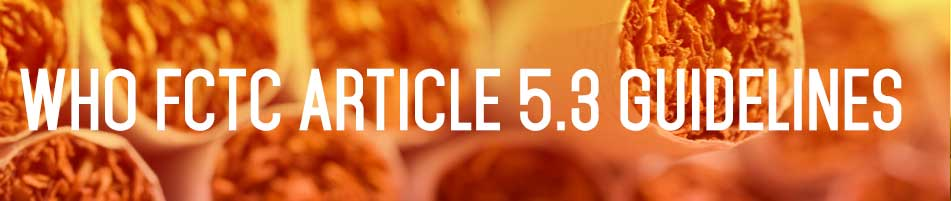
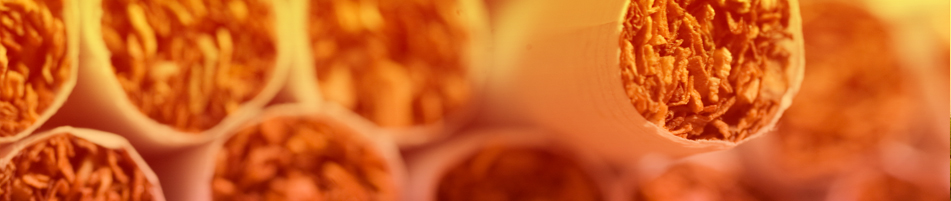
use background images without texts

Changed region(s): [[0.0, 0.3284, 0.9758, 0.6567]]

diff --git a/wp-content/themes/dyad/style.css b/wp-content/themes/dyad/style.css
@@ -6,13 +6,12 @@ main#primary {
 
 /* temporary start */
 .banner-description {
-	display: none;
 }
 
 /* temporary end */
 
 .site-banner-inner {
-	background: url('images/cover-bg.jpg') no-repeat;
+	background: url('images/cover.jpg') no-repeat;
 	background-size: cover;
 }
 
@@ -92,6 +91,12 @@ div#homepage-content{
     filter: alpha(opacity=80); /* For IE8 and earlier */
 	min-width: 50%;
 	width: 50%;
+}
+
+.pageblock-label {
+	text-align: center;
+	color: #fefefe;
+	padding-top: 70px;
 }
 
 .brickmenuimg {

diff --git a/wp-content/themes/dyad/index.php b/wp-content/themes/dyad/index.php
@@ -46,18 +46,13 @@ get_header(); ?>
 						<?php foreach($pages as &$page){ ?>
 						<a href="<?php echo get_page_link( $page->ID )?>" class="<?php echo "chapter".$counter?>">
 							<div class = "pageblock">
+								<h3 class="pageblock-label"><?php echo $page->post_title ?></h3>
 							</div>
 						</a>
 
 						<?php $counter++; }?>
+						
 					</div><!-- .posts -->
-
-						<div id="wikifaq"></div>
-					<!--<div class="homepage-sidebar shadow">
-						<h3>Wiki</h3>
-						<h3>FAQs</h3>
-					</div>-->
-
 					<?php the_posts_navigation(); ?>
 
 				<?php else : ?>
